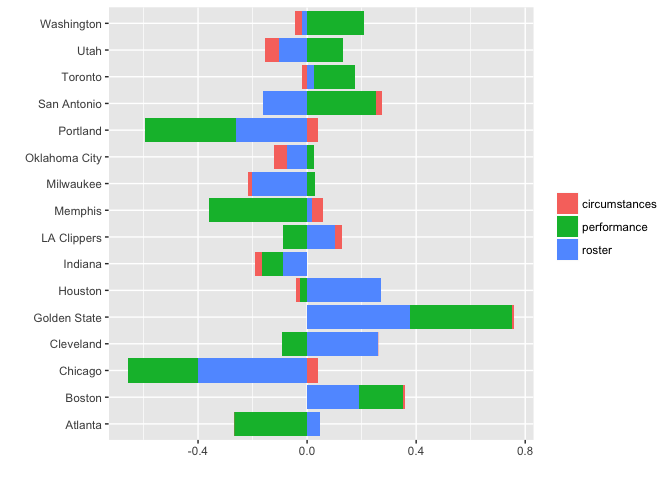
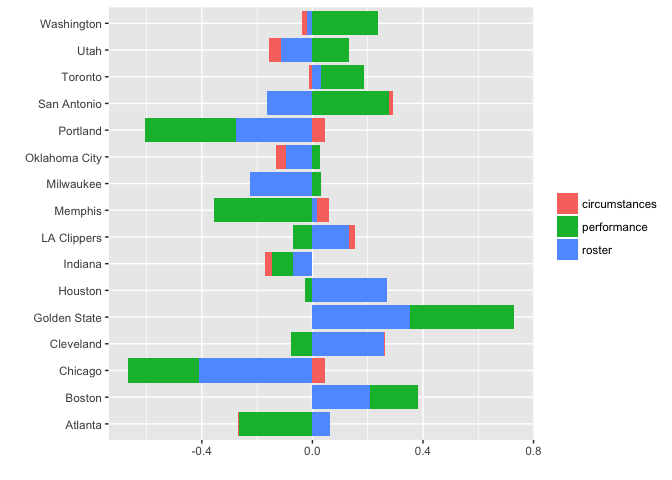
finalize playoff charts

diff --git a/Playoffs/playoffs_2017.md b/Playoffs/playoffs_2017.md
@@ -7,18 +7,17 @@ For those who didn't see my previous post on the Elastic NBA Ratings, they are b
 
 Let's get straight to the key results:
 
--   First, a not-so-controversial prediction: The Golden State Warriors will reclaim the title this year. They won in every single simulation, barely losing any games along the way.
--   For the games in the first three rounds, the average win-probability for Golden State is 68%. During the finals against Boston the average win-probability for Golden State is 61%.
--   More interestingly, however, is that the model picks the Boston Celtics as Golden State's opponent in the finals, after disposing the Cavs in 6 games.
+-   First, a not-so-controversial prediction: The model predicts that the Golden State Warriors will reclaim the title this year, winning every series in less than six games.
+-   More interestingly, however, is that the model picks the Boston Celtics as Golden State's opponent in the finals, after beating the Cavs in 6 games.
 -   Also, the model favors the Spurs over Houston to advance to the Western Conference Finals, after a seven game series between the two teams.
 
-Note that this assumes no major injuries to key players (or suspensions).
+Note that this assumes no major injuries to key players (or suspensions). Also, the model does not know that teams will lose games that they're supposed to win, and vice versa.
 
 About the Simulations
 =====================
 
 -   No data from the 2017 playoffs were used to make the predictions; only regular season data were used. Injury information is from the day before the playoffs started.
--   The minutes played by each player were varied randomly across games for each playoff simulation based on variation observed during the 2016-2017 season. This was done to gauge the stability of the predictions, since minutes played is one of the key inputs into the model.
+-   The projected minutes played by each player were varied randomly across games based on variation observed during the 2016-2017 season. The playoffs were then repeated multiple times. This was done to gauge the stability of the predictions, since minutes played by each player are key inputs into the model.
 
 Making Sense of the Predictions
 ===============================
@@ -44,7 +43,6 @@ center <- function(x){return(x-median(x))}
 read.csv(f, stringsAsFactors = FALSE) %>%
   select(selected_team, roster, circumstances, performance) %>%
   group_by(selected_team) %>%
-  #inner_join(qualifiers, by="selected_team") %>%
   summarise_each(funs(mean)) %>% ## get averages across games by team
   ungroup() %>%
   mutate_each(funs(center), which(sapply(., is.numeric))) %>% ## standardize across teams
@@ -60,14 +58,12 @@ read.csv(f, stringsAsFactors = FALSE) %>%
 
 The bars show the contribution from each part of the model. Longer, more positive bars mean that the given team is stronger in that category compared to its playoff competitors, and vice versa for negative bars.
 
-Note that the bars are *relative* to the competitors a given team might meet in the playoff simulations. This means that the bars are not completely apples-to-apples across teams as some teams will face off against better competition. For example, Portland's bars essentially reflect how Portland stacks up against Golden State.
+Note that the bars are *relative* to the competitors a given team might meet in the playoff. This means that the bars are not apples-to-apples across teams as some teams will face off against better competition. For example, Portland's bars essentially reflect how Portland stacks up against Golden State. Nevertheless, we can get some interesting insights from this chart:
 
-Nevertheless, we can get some interesting insights from this chart:
-
--   The red bars show that circumstances -- e.g., traveling and home court advantage -- do not matter much in the playoffs. That's not a big surprise.
--   Golden State gets the highest score of all playoff teams, both in terms of performance (weighted winning percentage) and relative quality of the roster (surplus of stronger player "archetypes""). This is essentially why the model always favors Golden State.
--   The model is impressed by San Antonio's ability to beat teams, but not impressed by its roster (compared to the teams they're playing).
--   Based on the green bars, it looks like the model favors Boston over Cleveland due to Cleveland's recent poor performance in the season, despite having a strong roster. But we all know that that the Cavs can turn it up to another level in the playoffs.
+-   The red bars indicate that circumstances -- e.g., miles traveled and home court advantage -- do not matter much in the playoffs.
+-   Golden State gets the highest scores of all playoff teams, both in terms of performance (weighted winning percentage) and relative quality of the roster (surplus of stronger player "archetypes"").
+-   The model is impressed by San Antonio's ability to beat good teams, but not impressed by its roster (compared to the teams they're playing).
+-   It looks like the model favors Boston over Cleveland due to Cleveland's recent poor performance in the season, despite Cleveland having a highly rated roster. But we all know that that the Cavs can turn it up to another level in the playoffs.
 -   The model is picking home-court advantage and winning history over roster quality in a potential Rockets/Spurs match-up. In fact, the model is anticipating a seven-games series if this match up happens.
 
 Last Words
